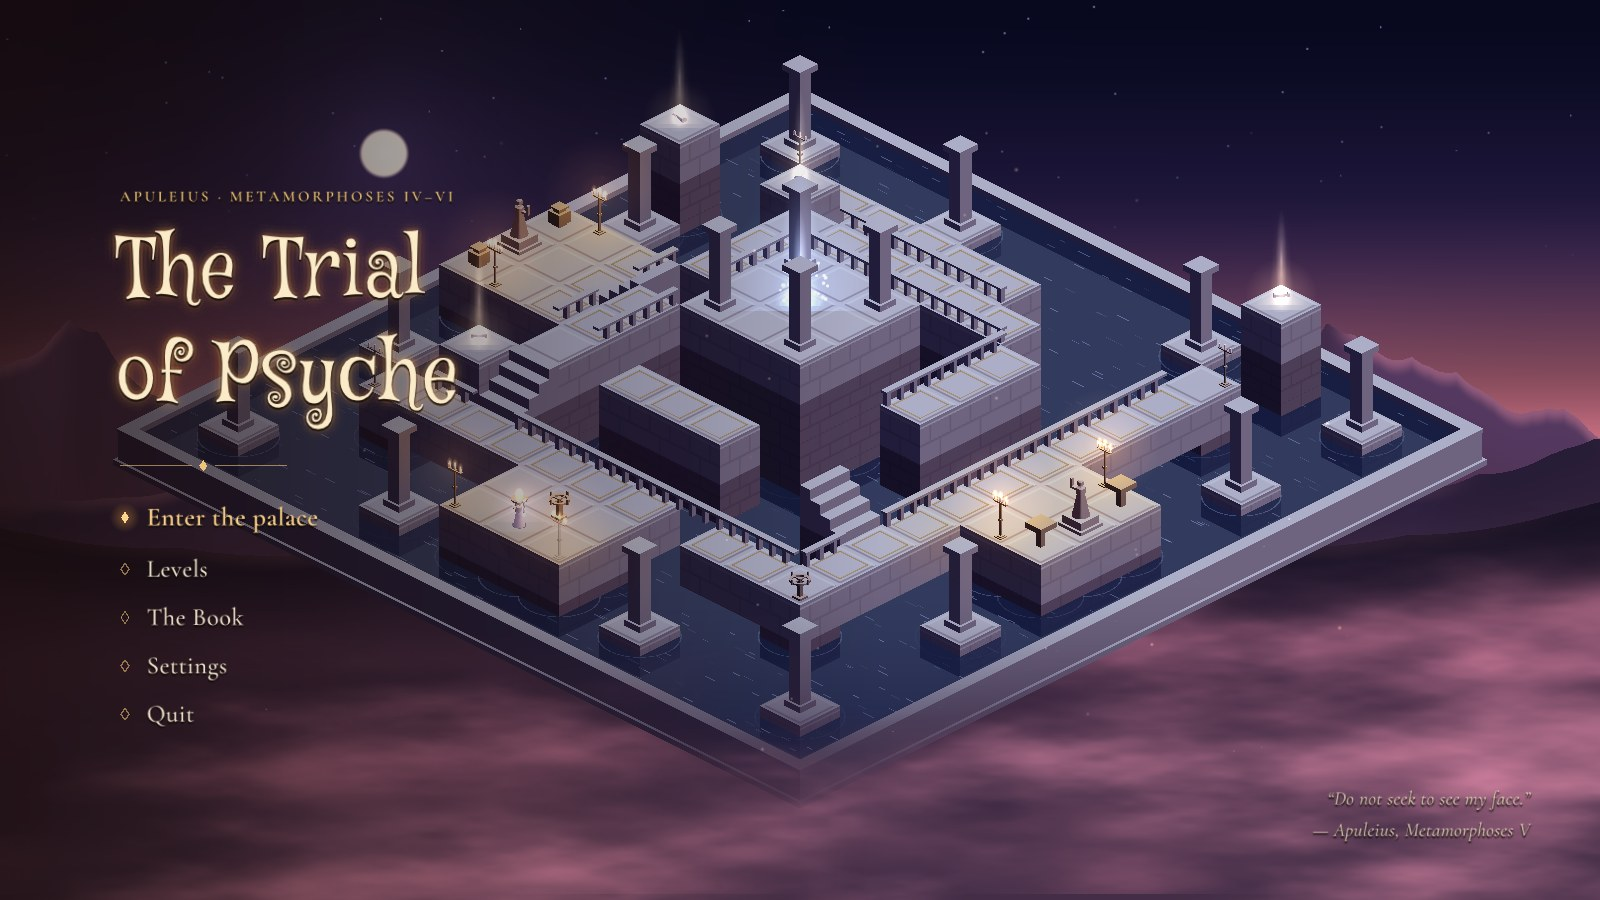
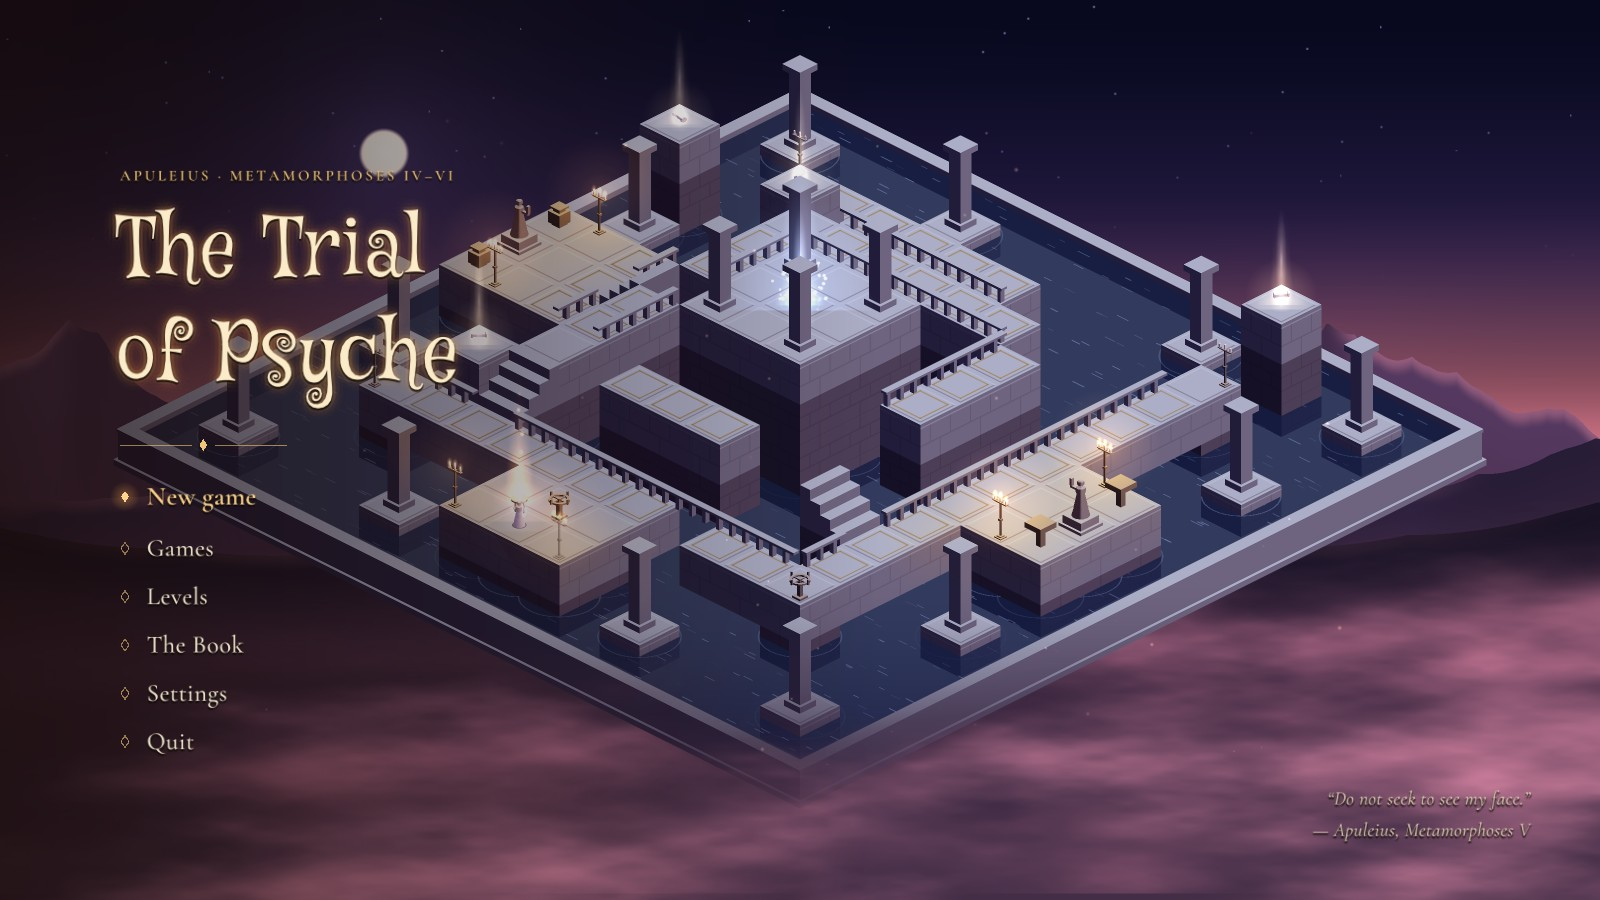
README: the title on New game and Games, the games and the constellation, the new controls

diff --git a/README.md b/README.md
@@ -56,6 +56,17 @@ tale to gather in the Book. It will be released once the whole tale is told.
 </tr>
 </table>
 
+Up to five games side by side, each to continue, restart or erase; the levels of
+each act as pictures or as a constellation, a star per level, lit where the tale
+has gone on.
+
+<table>
+<tr>
+<td width="50%"><img src="docs/screenshots/games.jpg" alt="The games: five slots side by side, three saved games with their level, fragments and date"><br><sub><i>Five games side by side</i></sub></td>
+<td width="50%"><img src="docs/screenshots/levels_constellation.jpg" alt="The level select of Act III as a constellation: a star per level joined by lines of gold, the chosen level's diorama turning on the right"><br><sub><i>An act as a constellation</i></sub></td>
+</tr>
+</table>
+
 What changed, step by step: the [changelog](docs/changelog.md).
 
 ## Controls
@@ -69,6 +80,9 @@ What changed, step by step: the [changelog](docs/changelog.md).
 | into a cave · call the eagle | Space | A |
 | back to the last brazier · hold: restart | R | B |
 | where is Psyche? | Tab | Y |
+| skip a cutscene (hold) | Space or Enter | A or B |
+| levels: pictures or constellation | Tab | Y |
+| erase a game | Del | X |
 | pause | Esc | Start |
 
 ## License

diff --git a/docs/changelog.md b/docs/changelog.md
@@ -10,6 +10,7 @@ Kinds: **feature** (new code or mechanic) · **level** (a level built or rebuilt
 
 | Title | Kind | Description |
 |---|---|---|
+| README | docs | New title shot (New game, Games), two shots of the new screens (the games, the constellation), the new controls. |
 | Cupid as light | rework | Cupid is a figure of pure light that breathes, with trails of light for wings (a ripple running along them, quicker in flight); his robe mesh and feathers removed. |
 | The act as a constellation | feature | In the level select Tab (pad Y) turns the row of pictures into a constellation: a star per level, lit lines where the tale went on, a level's other dioramas as small stars rising from it. |
 | Shots of the games | tooling | The shots script shows the games list with three saves, the erase question and the title on Continue. |
